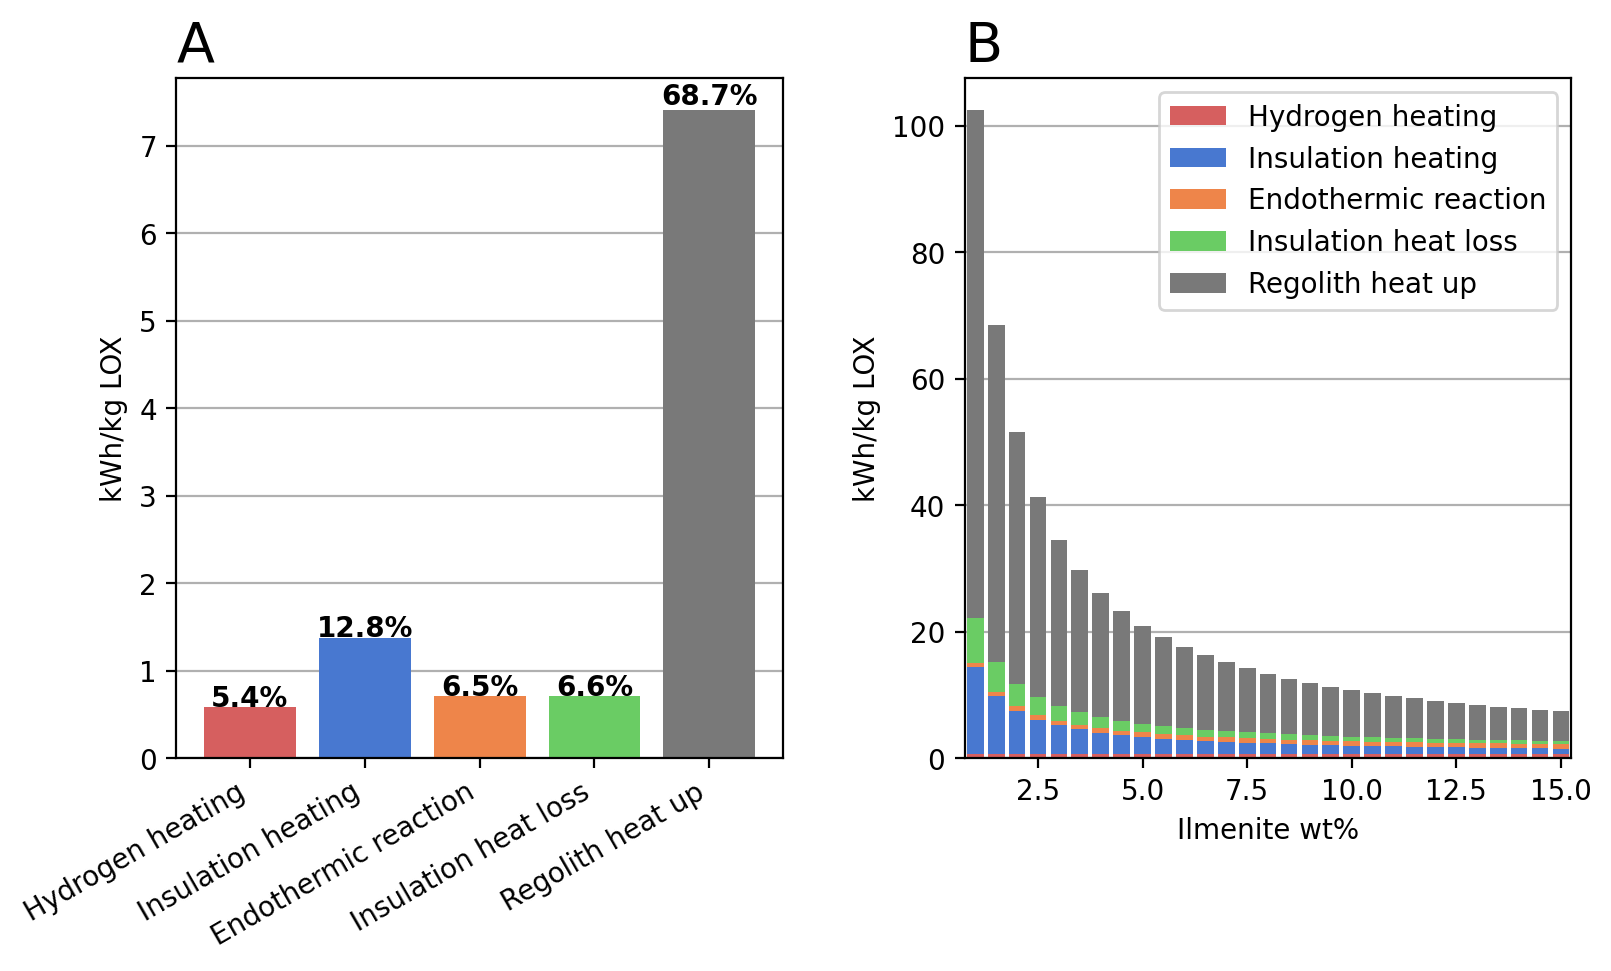
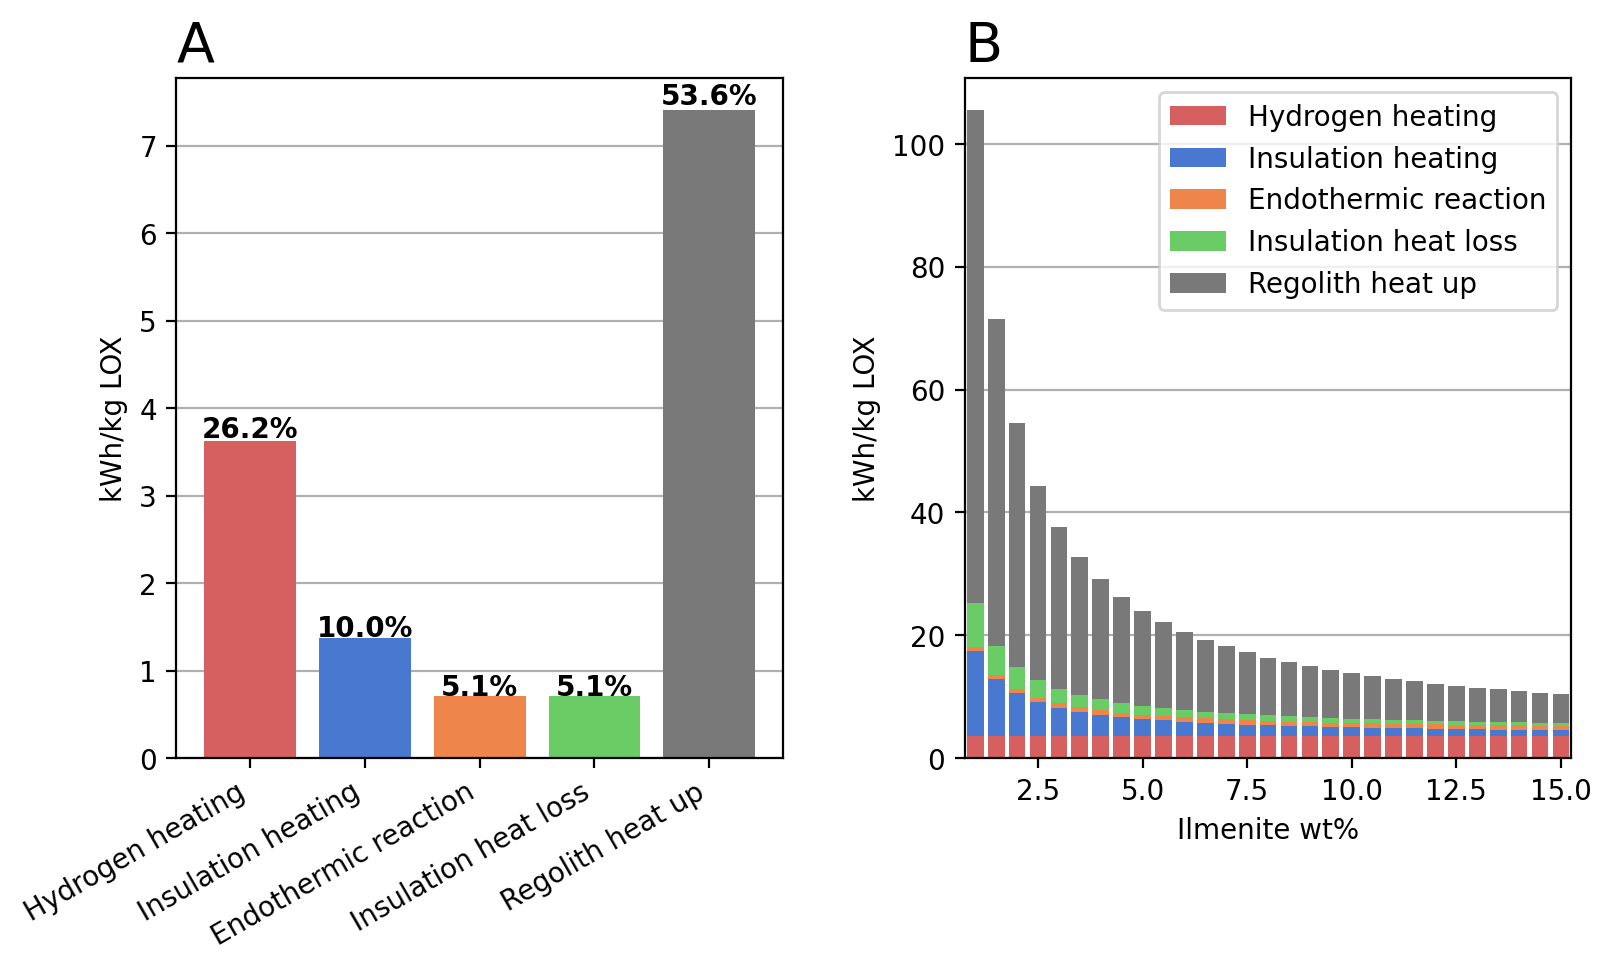
Partial pressure ratio 100:1

diff --git a/space_resources/modules/H2_Reactor_1.py b/space_resources/modules/H2_Reactor_1.py
@@ -177,7 +177,7 @@ def energy_to_heat_hydrogen_func(ilmenite_moles_batch, batch_reaction_time_in_ho
     molar_mass_flow_water = water_out_moles_batch / \
         (batch_reaction_time_in_hours*3600)  # [mol/s]
     # [mol/s] 20 because of 5% partial pressure condition
-    molar_mass_flow_hydrogen = 20*molar_mass_flow_water
+    molar_mass_flow_hydrogen = 100*molar_mass_flow_water
     mass_flow_hydrogen = molar_mass_flow_hydrogen * \
         MOLAR_MASS_H2/1000  # [kg/s] converted from g/s to kg/s
 
